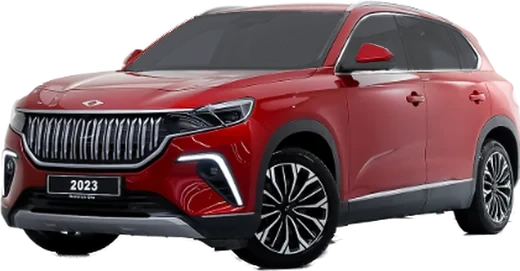
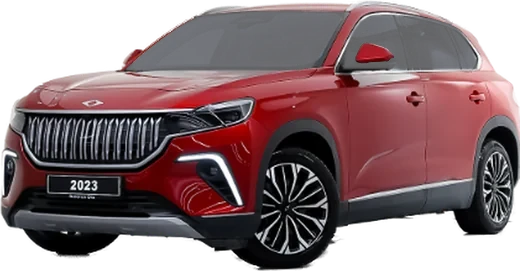
Togg cam tonu bir tık açık

Changed region(s): [[0.2462, 0.0295, 0.9231, 0.2657]]

diff --git a/app/sw.js b/app/sw.js
@@ -1,5 +1,5 @@
 // Çevrimdışı önbellek (yalnız uygulama dosyaları; Firebase verisi önbelleğe alınmaz).
-const CACHE = 'evenerji-v10';
+const CACHE = 'evenerji-v11';
 const ASSETS = [
   './', './index.html', './manifest.json', './css/app.css', './vendor/echarts.min.js',
   './js/app.js', './js/data.js', './js/demo.js', './js/model.js', './js/tariff.js', './js/ui.js', './js/charts.js',

diff --git a/tools/glass.py b/tools/glass.py
@@ -20,8 +20,8 @@ WINDSHIELD = [(126, 69), (140, 52), (160, 33), (182, 21), (205, 14), (240, 11), 
 SIDE = [(343, 68), (346, 50), (352, 32), (360, 21), (370, 16), (395, 15), (440, 17), (452, 22),
         (464, 36), (472, 50), (476, 62), (476, 69)]
 
-ALPHA = 0.78      # cam opaklığı (0 saydam, 1 tam siyah)
-KEEP_LIGHT = 0.22  # yansımalardan korunan parlaklık payı
+ALPHA = 0.64      # cam opaklığı (0 saydam, 1 tam siyah)
+KEEP_LIGHT = 0.30  # yansımalardan korunan parlaklık payı
 
 
 def main():
